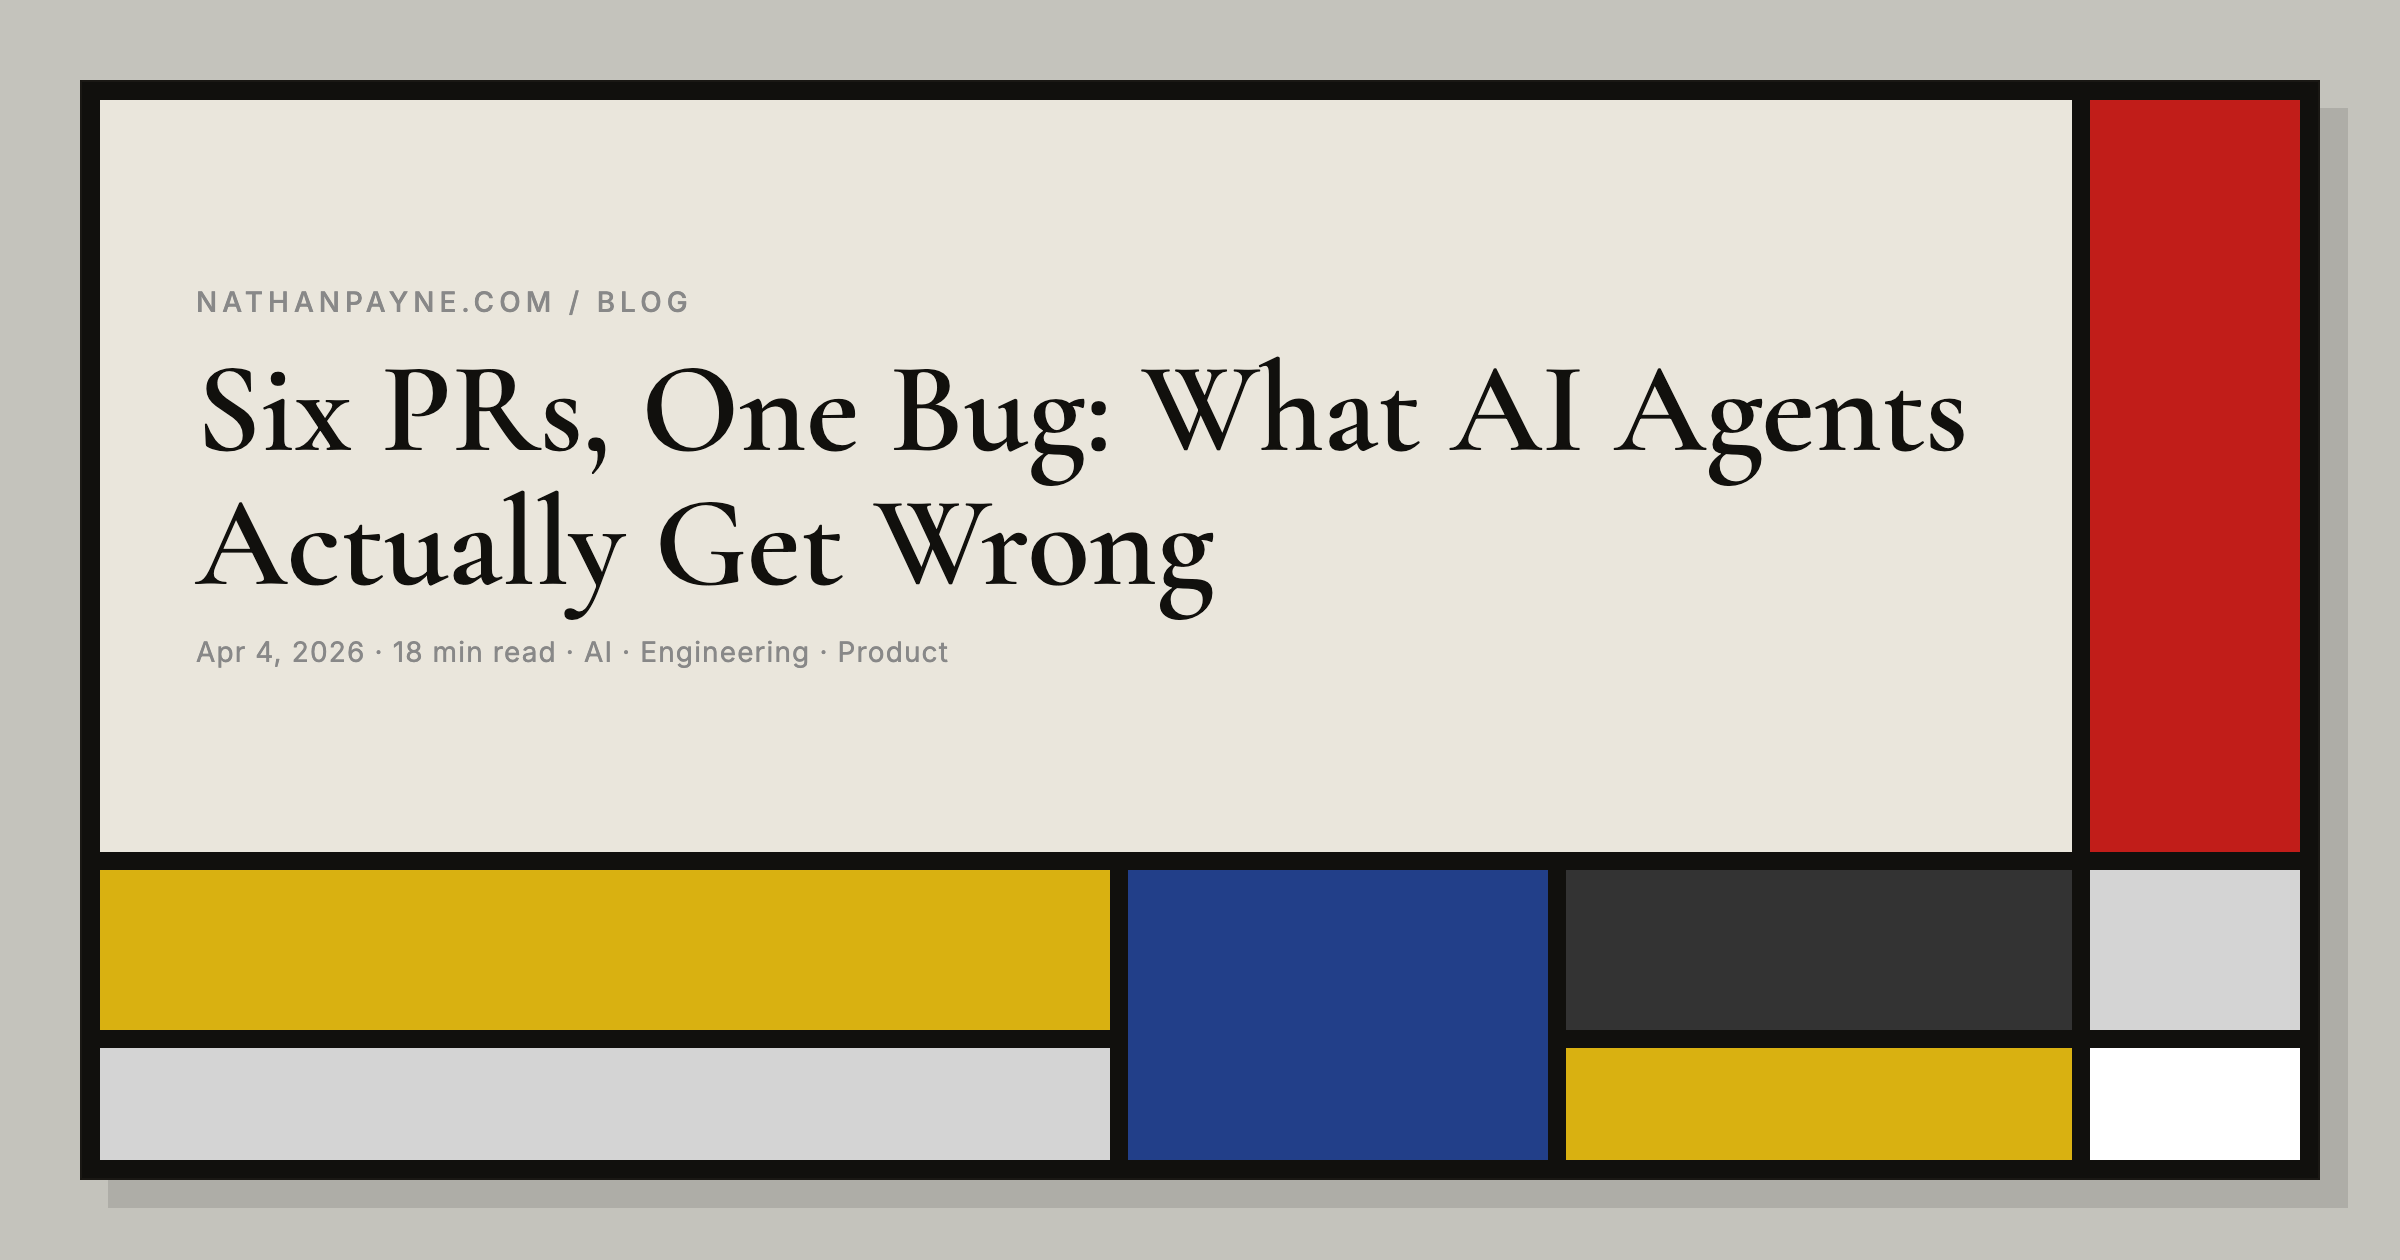
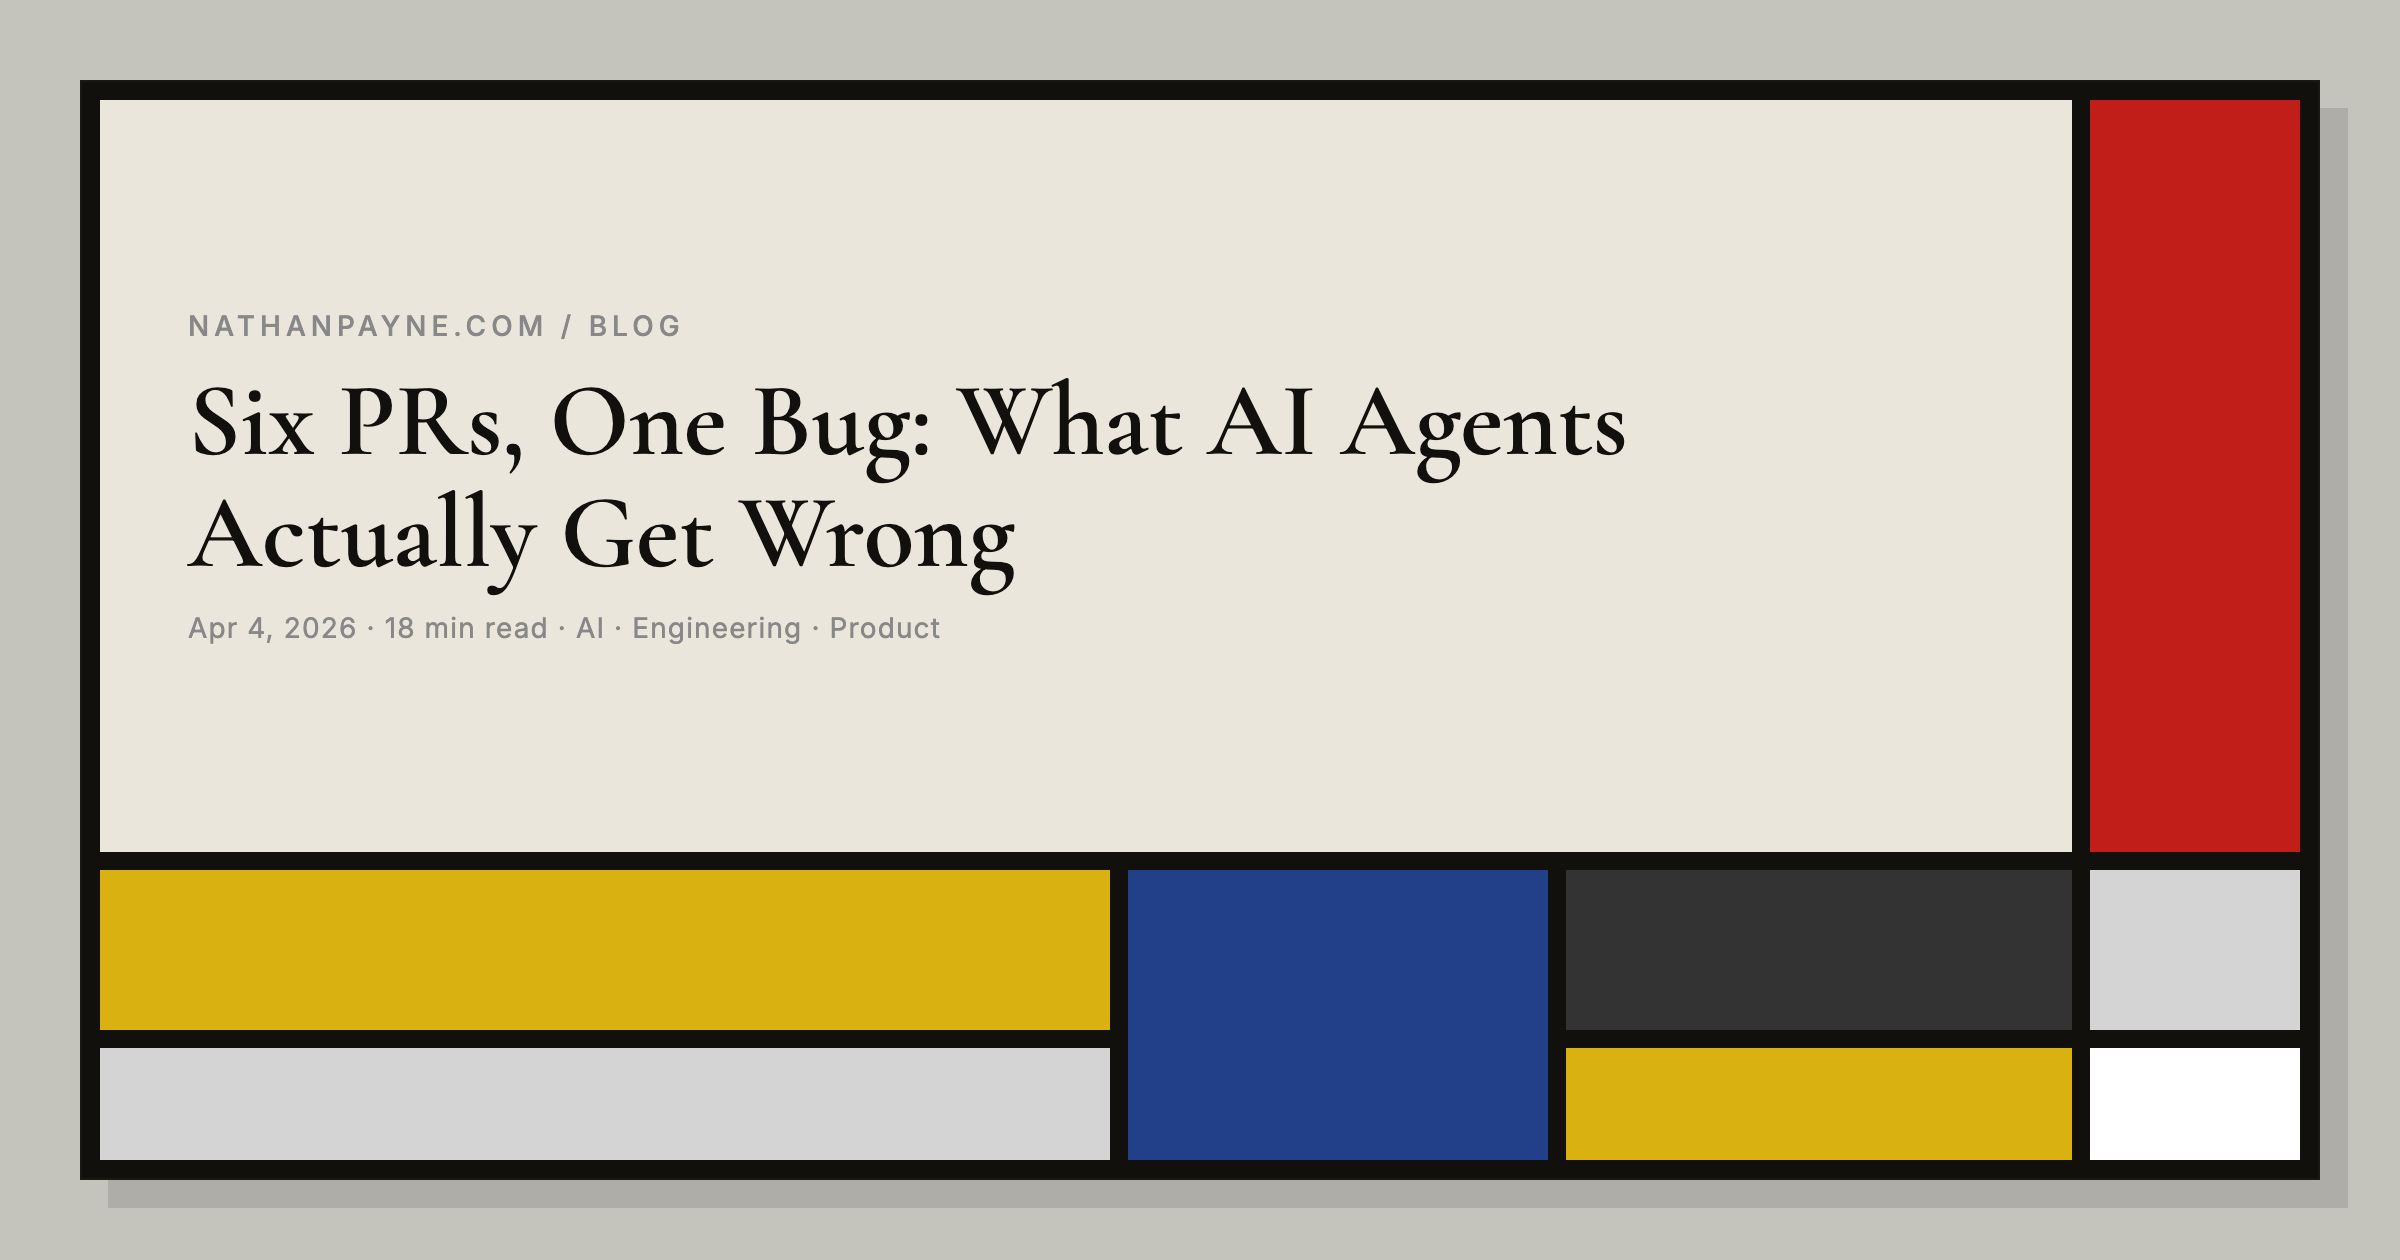
Fix OG card text overflow for long headings
Reduce heading from 64px to 52px and tighten padding to prevent
text clipping on cards with longer titles like "Six PRs, One Bug:
What AI Agents Actually Get Wrong" and "Device Source of Truth".

Changed region(s): [[0.0625, 0.2167, 0.8125, 0.5262]]

diff --git a/src/styles/global.css b/src/styles/global.css
@@ -1486,11 +1486,12 @@ body.blog-page {
   grid-column: 2 / 7;
   grid-row: 2;
   background: var(--surface);
-  padding: 48px;
+  padding: 40px 44px;
   display: flex;
   flex-direction: column;
   justify-content: center;
   overflow: hidden;
+  min-width: 0;
 }
 
 .og-label {
@@ -1505,16 +1506,18 @@ body.blog-page {
 
 .og-heading {
   font-family: "Cormorant Garamond", Garamond, serif;
-  font-size: 64px;
+  font-size: 52px;
   font-weight: 600;
-  line-height: 1.05;
+  line-height: 1.08;
   color: var(--ink);
-  margin: 0 0 12px;
+  margin: 0 0 10px;
+  overflow-wrap: break-word;
+  word-break: break-word;
 }
 
 .og-description {
   font-family: "Inter", system-ui, sans-serif;
-  font-size: 20px;
+  font-size: 18px;
   line-height: 1.45;
   color: #555;
   margin: 0 0 8px;
